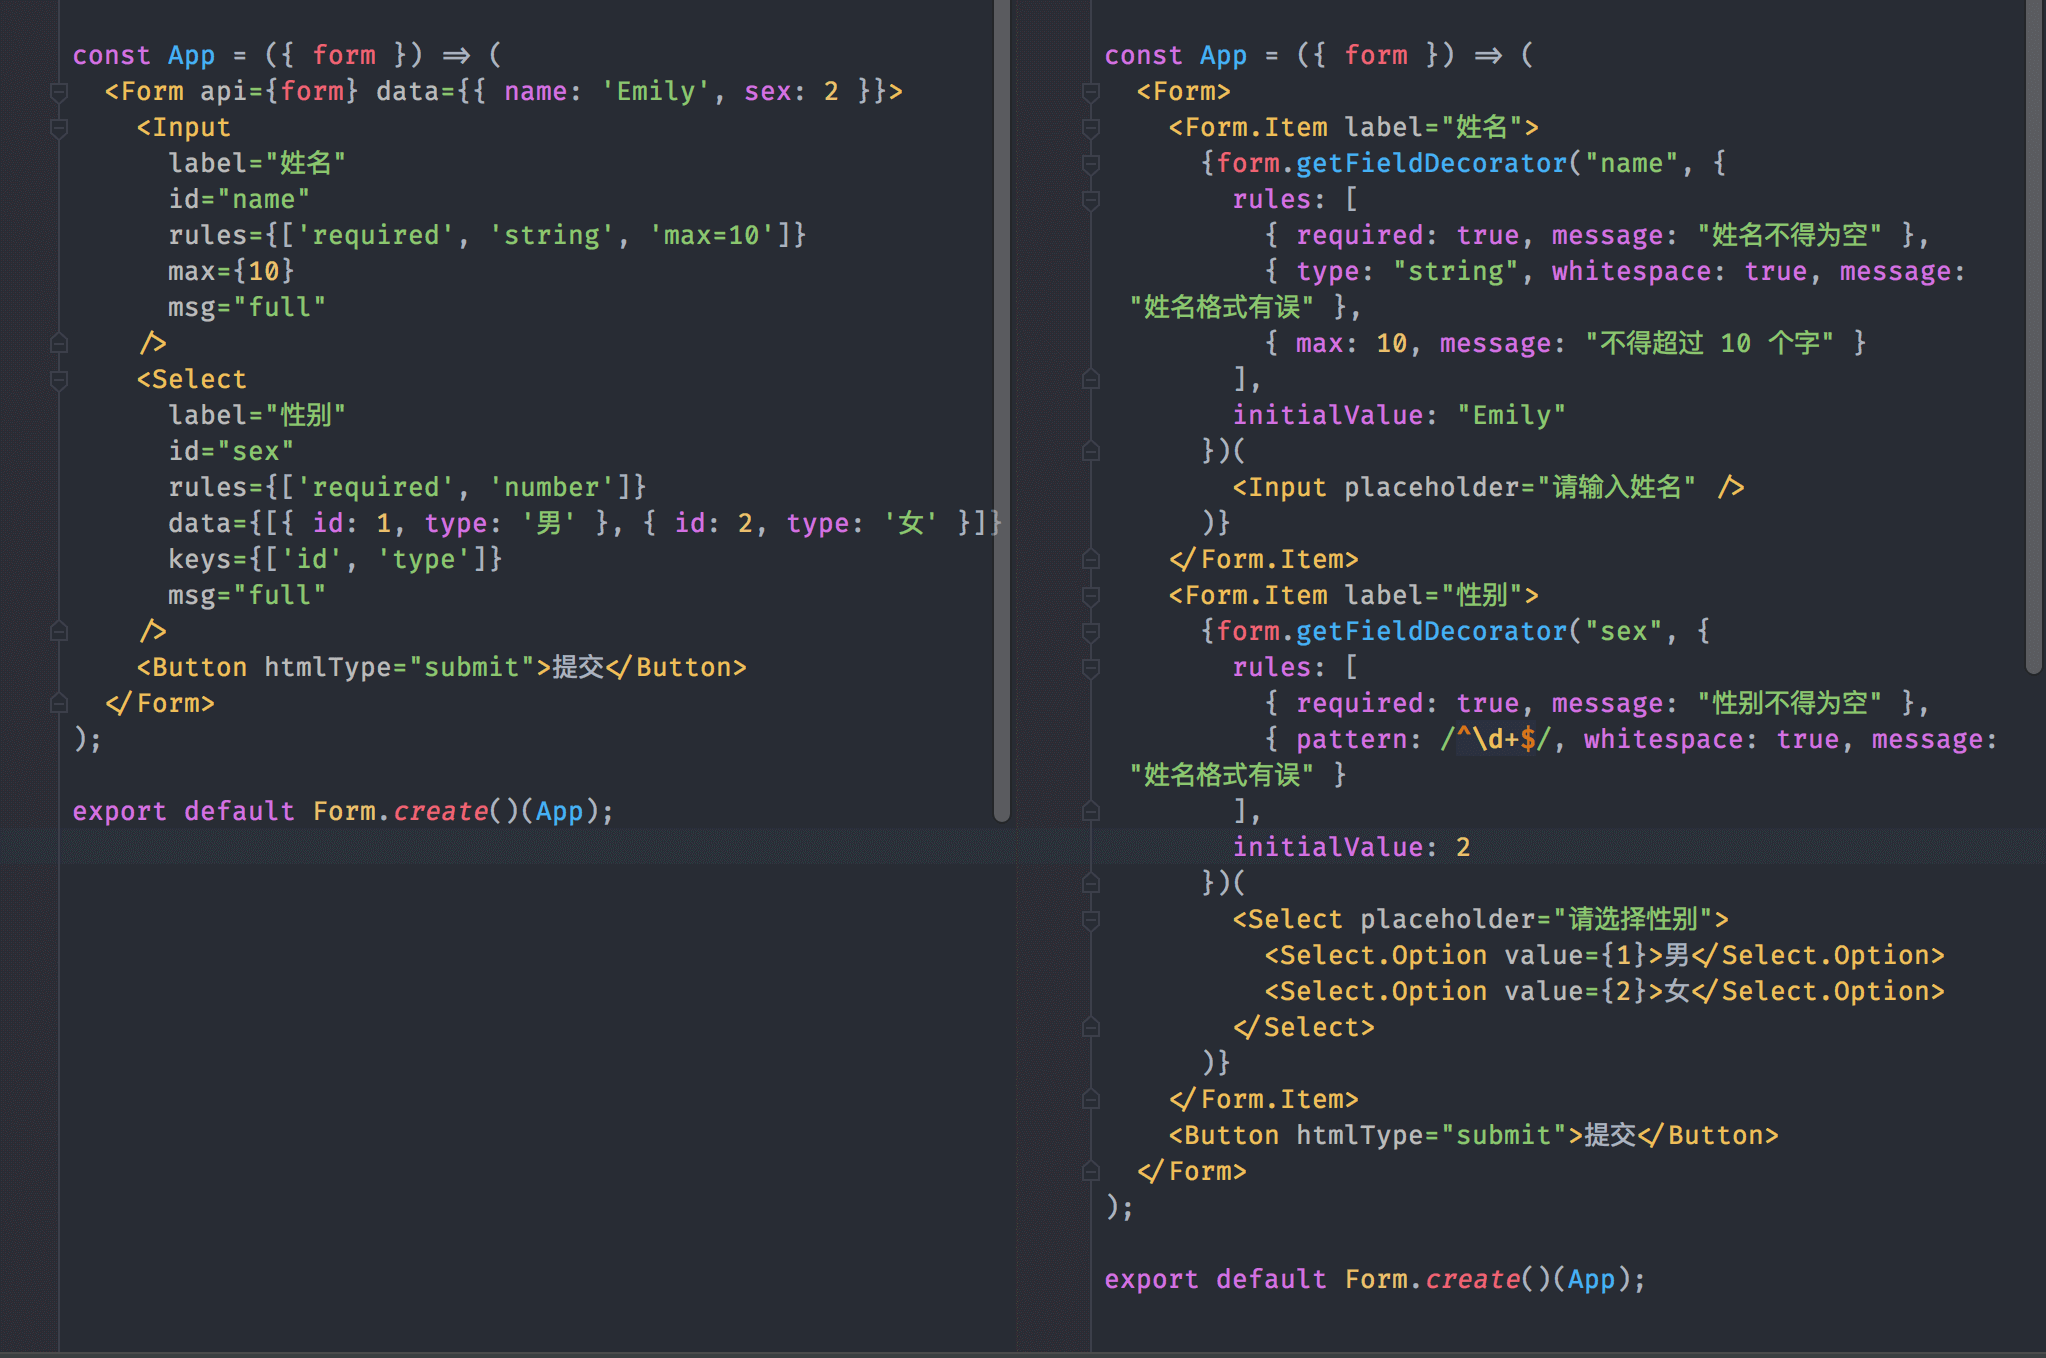
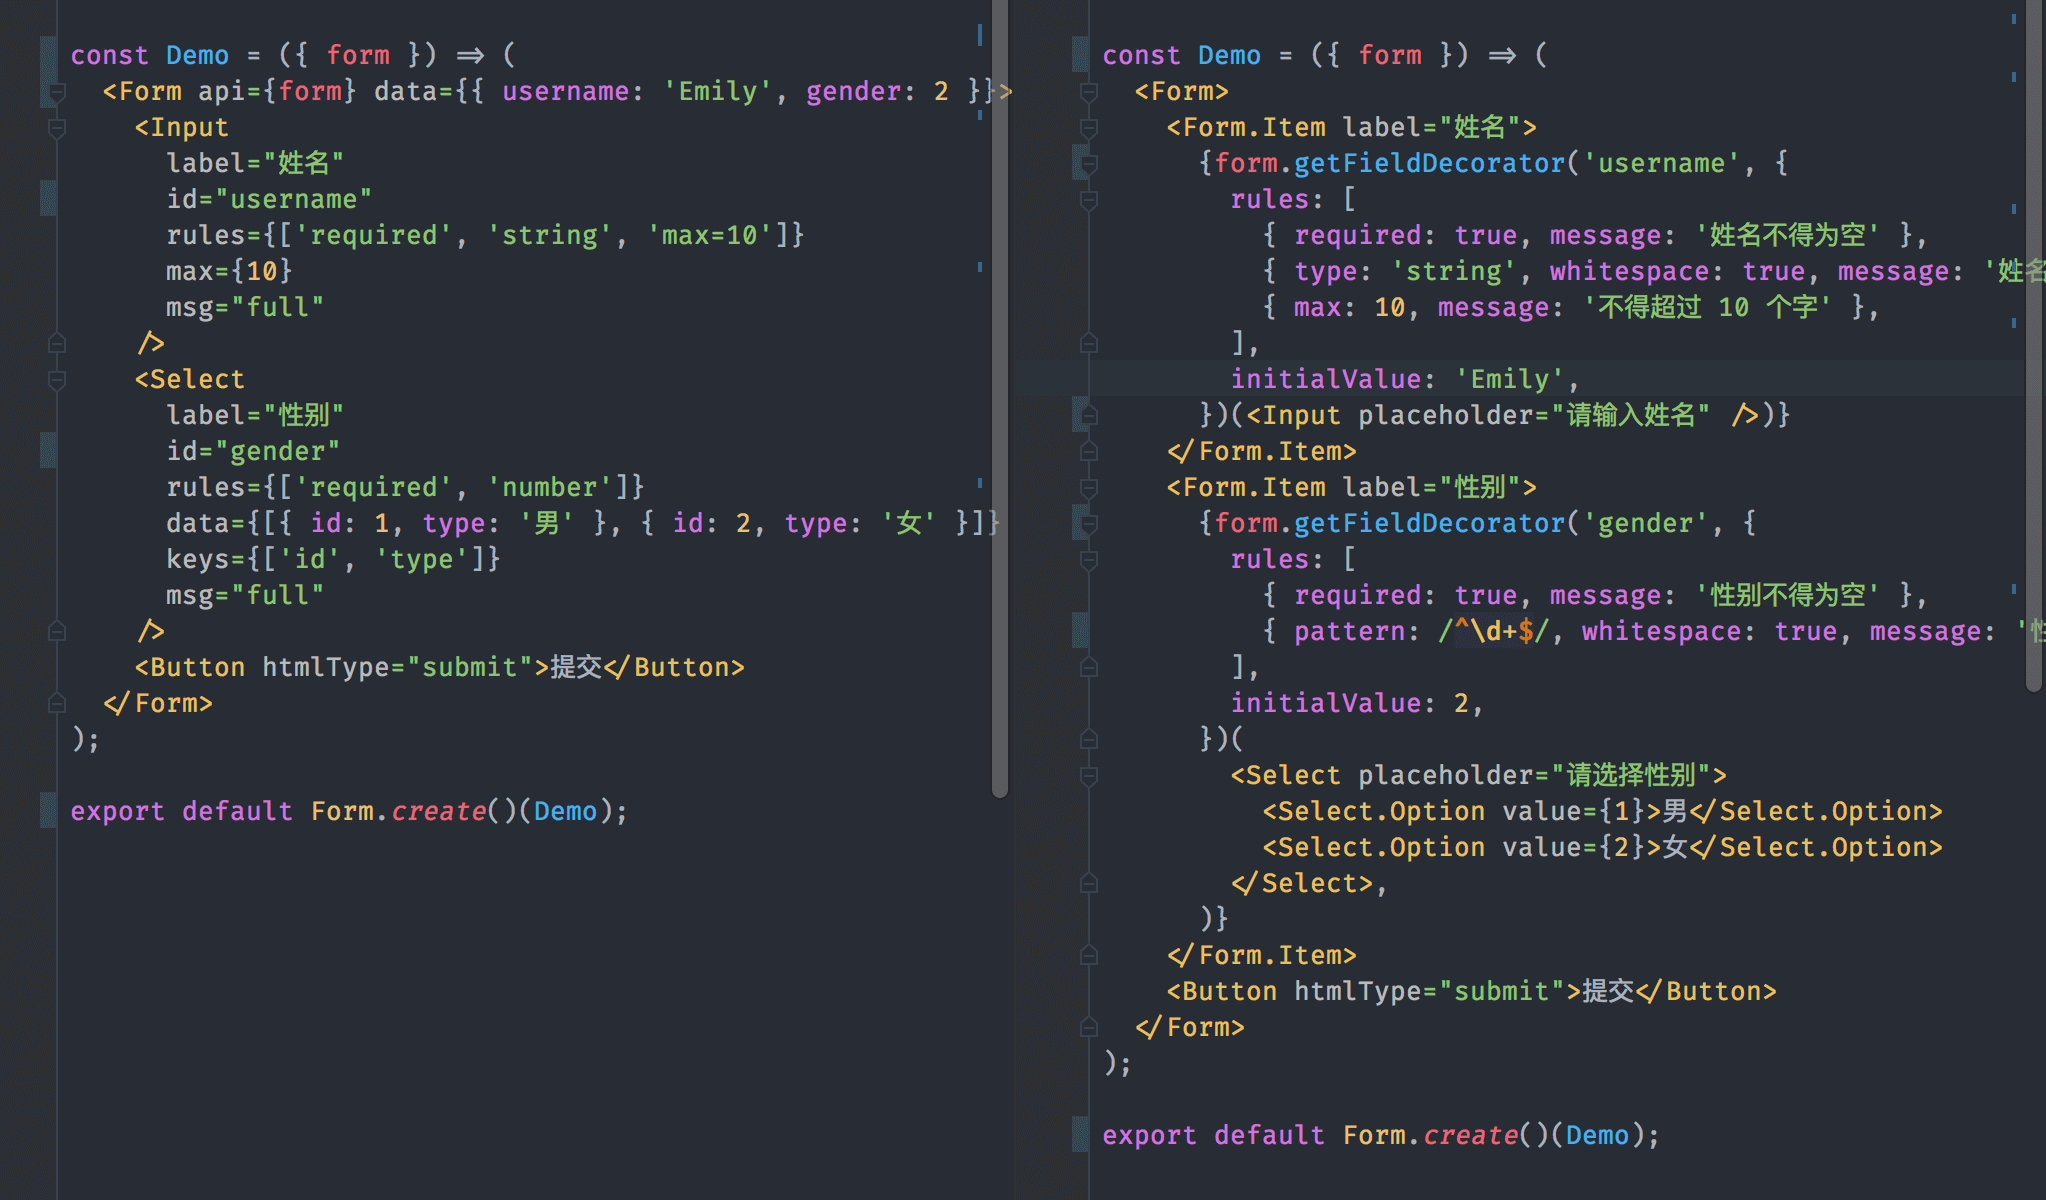
🙌 Update contrast

diff --git a/contrast/antd.jsx b/contrast/antd.jsx
@@ -1,25 +1,23 @@
 import React from 'react';
 import { Form, Input, Select, Button } from 'antd';
 
-const App = ({ form }) => (
+const Demo = ({ form }) => (
   <Form>
     <Form.Item label="姓名">
-      {form.getFieldDecorator('name', {
+      {form.getFieldDecorator('username', {
         rules: [
           { required: true, message: '姓名不得为空' },
           { type: 'string', whitespace: true, message: '姓名格式有误' },
           { max: 10, message: '不得超过 10 个字' },
         ],
         initialValue: 'Emily',
-      })(
-        <Input placeholder="请输入姓名" />,
-      )}
+      })(<Input placeholder="请输入姓名" />)}
     </Form.Item>
     <Form.Item label="性别">
-      {form.getFieldDecorator('sex', {
+      {form.getFieldDecorator('gender', {
         rules: [
           { required: true, message: '性别不得为空' },
-          { pattern: /^\d+$/, whitespace: true, message: '姓名格式有误' },
+          { pattern: /^\d+$/, whitespace: true, message: '性别格式有误' },
         ],
         initialValue: 2,
       })(
@@ -33,4 +31,4 @@ const App = ({ form }) => (
   </Form>
 );
 
-export default Form.create()(App);
+export default Form.create()(Demo);

diff --git a/contrast/antx.jsx b/contrast/antx.jsx
@@ -1,19 +1,18 @@
 import React from 'react';
-import { Button } from 'antd';
-import { Form, Input, Select } from 'antx';
+import { Form, Input, Select, Button } from 'antd';
 
-const App = ({ form }) => (
-  <Form api={form} data={{ name: 'Emily', sex: 2 }}>
+const Demo = ({ form }) => (
+  <Form api={form} data={{ username: 'Emily', gender: 2 }}>
     <Input
       label="姓名"
-      id="name"
+      id="username"
       rules={['required', 'string', 'max=10']}
       max={10}
       msg="full"
     />
     <Select
       label="性别"
-      id="sex"
+      id="gender"
       rules={['required', 'number']}
       data={[{ id: 1, type: '男' }, { id: 2, type: '女' }]}
       keys={['id', 'type']}
@@ -23,4 +22,4 @@ const App = ({ form }) => (
   </Form>
 );
 
-export default Form.create()(App);
+export default Form.create()(Demo);
